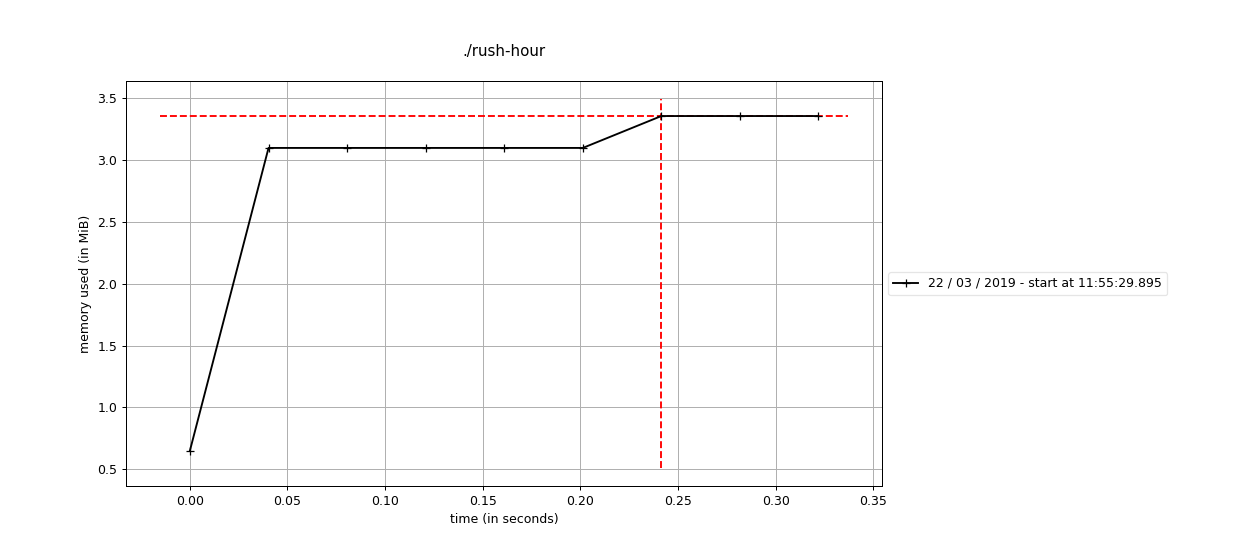
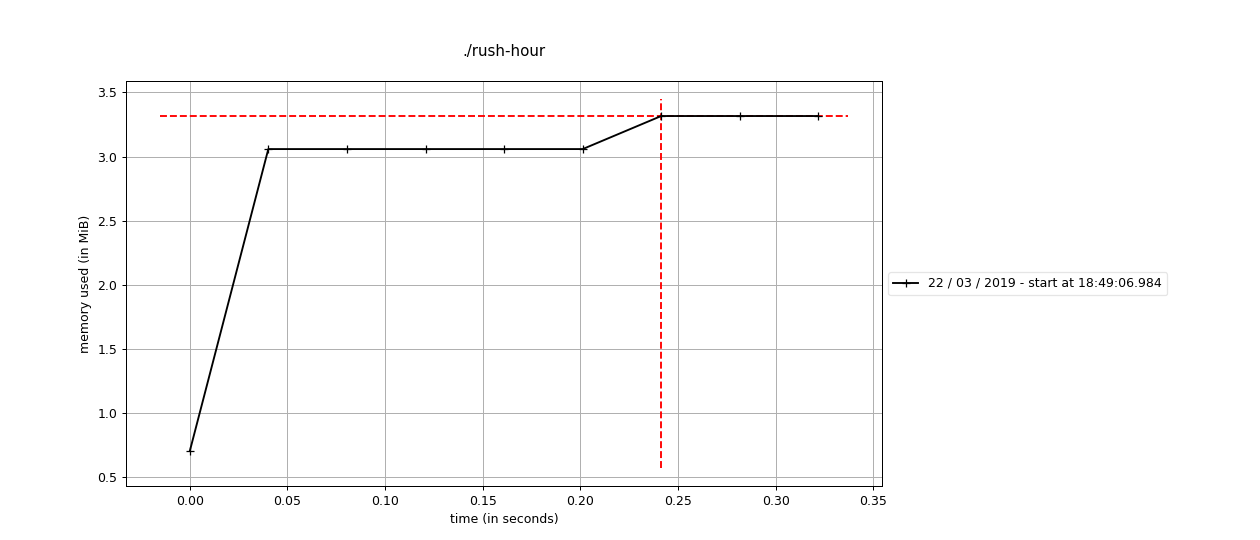
Update readme

diff --git a/README.md b/README.md
@@ -22,6 +22,5 @@ We can see `History:exists` is the function were our program spends most of the 
 
 ![](doc/mprof02-01.png)
 
-After removing the vector moves of `Situation` to provide it just when needed in the `Explorer` via a return and 
-using `unsgined char` instead of `int` or `unsigned int` in data `structs` and `class` where possible we saved some 
-memory and do not exceed 3.5MiB as we previously did.
+After removing the vector moves of `Situation` to provide it just when needed in the `Explorer` via a return memory 
+and use `short` instead of `int` and do not exceed 3.5MiB as we previously did.
